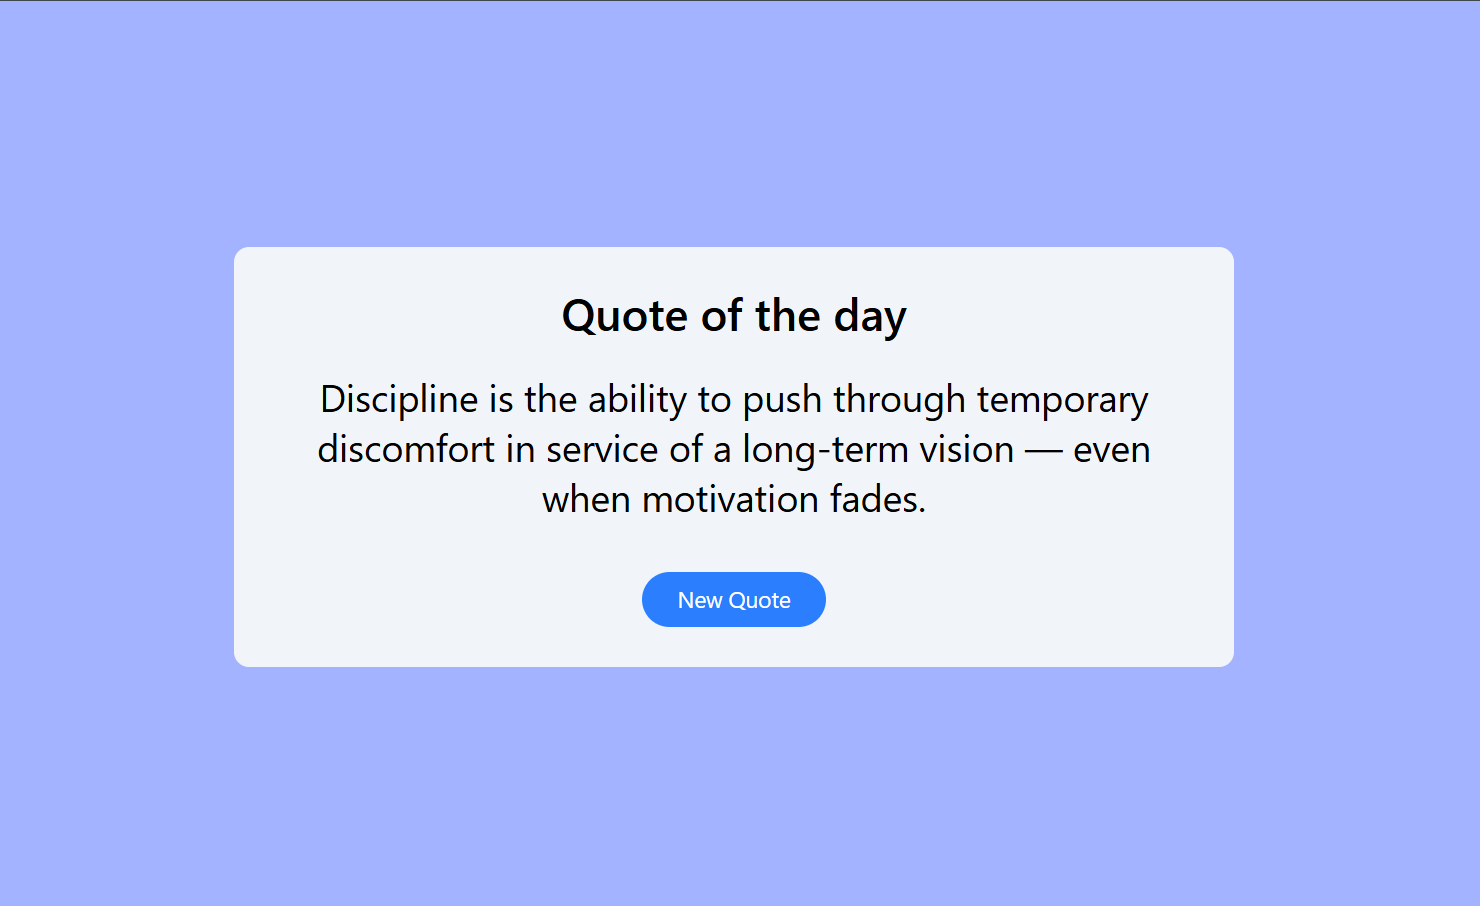
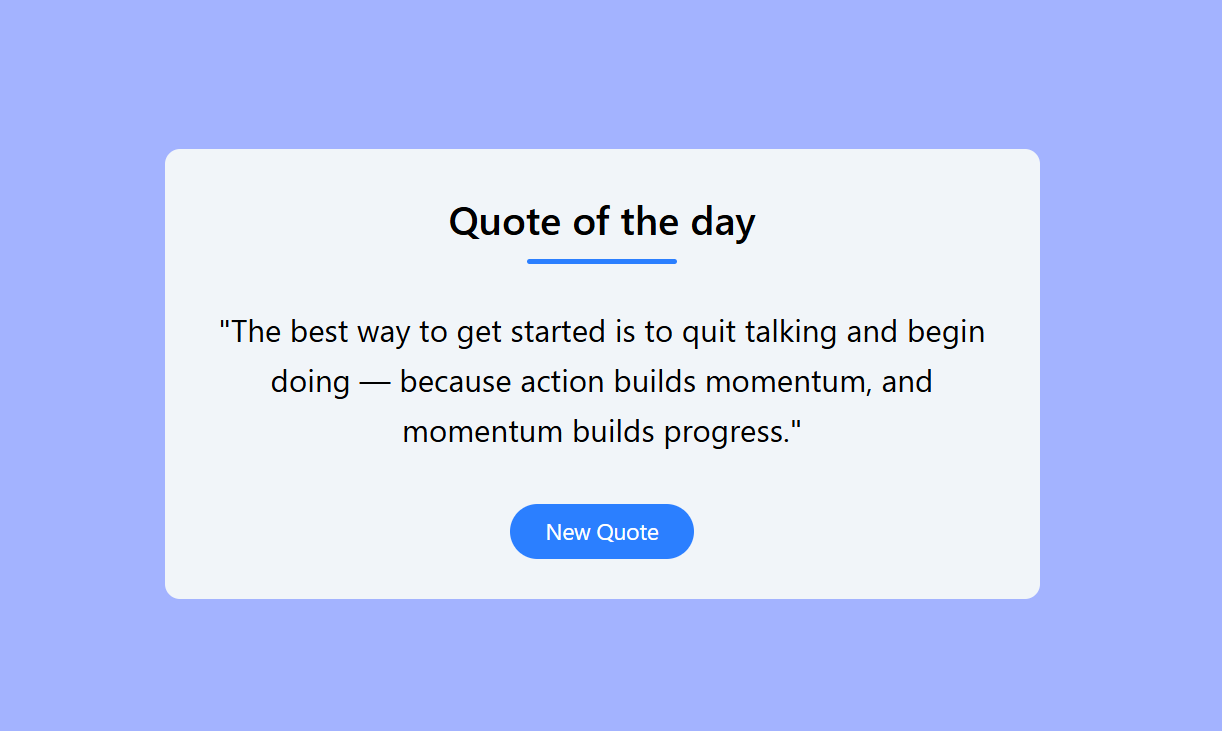
Added improvements

Changed region(s): [[0.1244, 0.1806, 0.8707, 0.8427]]

diff --git a/quote-app/frontend/src/App.jsx b/quote-app/frontend/src/App.jsx
@@ -27,16 +27,19 @@ export default function App() {
   return (
     <div className="w-full h-screen flex justify-center items-center bg-indigo-300">
       <div className="rounded-xl flex justify-center items-center flex-col text-black bg-slate-100 font-sans
-      min-a:w-[800px] min-a:py-8 min-a:px-10 max-a:w-[600px] max-a:py-6 max-a:px-6 max-b:w-[400px] max-c:w-[300px]">
-        <h1 className="font-semibold min-b:pb-7 max-b:pb-5
-        min-b:text-4xl max-b:text-3xl">Quote of the day</h1>
+      min-a:w-[700px] min-a:py-8 min-a:px-10 max-a:py-5 max-a:px-6 max-a:w-[90%]">
+        <h1 className="font-semibold min-b:pb-5 max-b:pb-3 min-b:text-[32px] max-b:text-[26px] relative after:content-[''] 
+        after:block after:w-30 after:h-1 after:bg-blue-500 after:mt-2 after:mb-3 after:rounded-full after:mx-auto">
+          Quote of the day
+        </h1>
 
-        <p className="text-center min-a:pb-10 max-a:pb-8
-        min-a:text-3xl min-a:leading-10 max-a:text-2xl max-a:leading-8">{quote}</p>
+        <p className="text-center min-a:pb-10 max-a:pb-8 min-a:text-[25px] min-a:leading-10 max-a:text-[22px] max-a:leading-8">
+          "{quote}"
+        </p>
 
         <button
           onClick={getQuote}
-          className="text-lg rounded-4xl cursor-pointer bg-blue-500 text-white
+          className="text-lg rounded-4xl cursor-pointer bg-blue-500 hover:bg-blue-700 transition text-white
           min-a:py-2 min-a:px-7 max-a:py-1.5 max-a:px-5">New Quote</button>
       </div>
     </div>

diff --git a/quote-app/frontend/src/index.css b/quote-app/frontend/src/index.css
@@ -1,7 +1,6 @@
 @import "tailwindcss";
 
 @theme {
-  --breakpoint-a: 55rem;
-  --breakpoint-b: 43rem;
-  --breakpoint-c: 29rem;
+  --breakpoint-a: 46.875rem;
+  --breakpoint-b: 40.625rem;
 }
